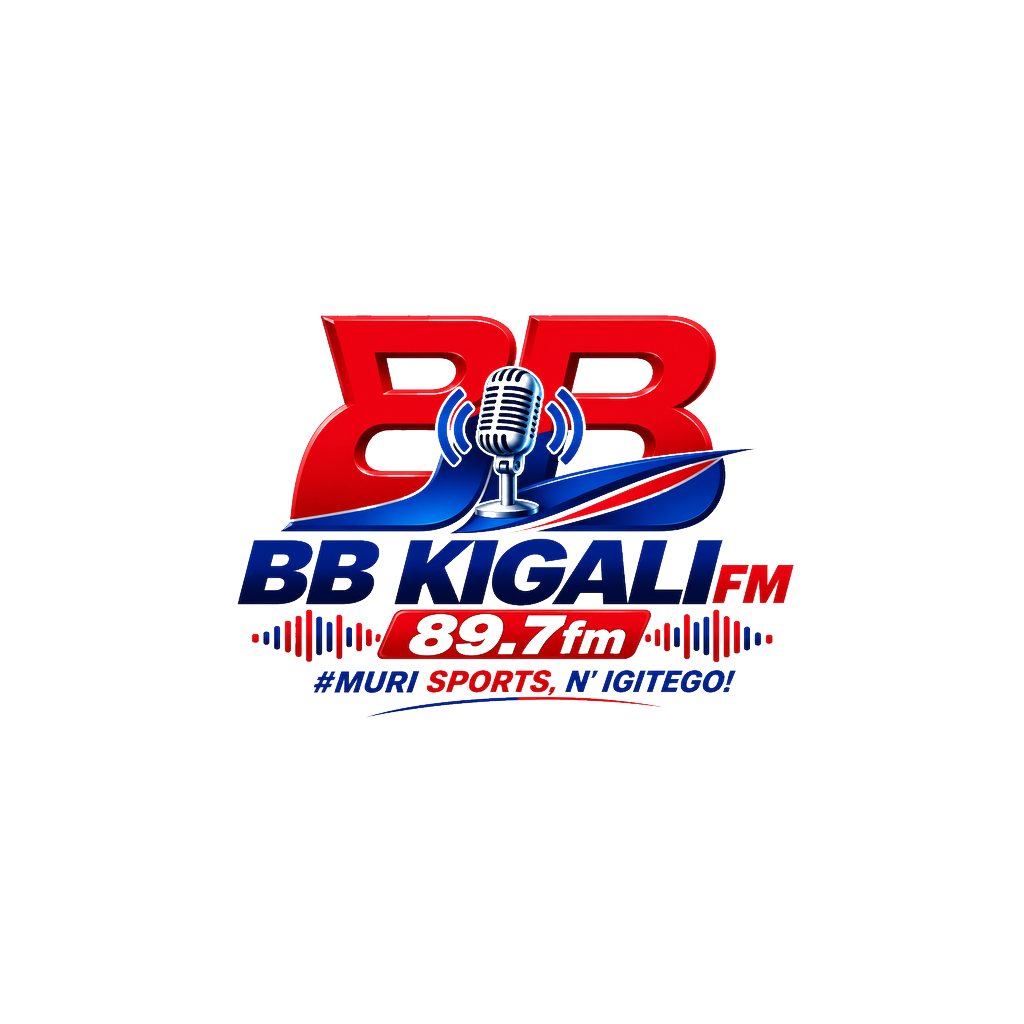
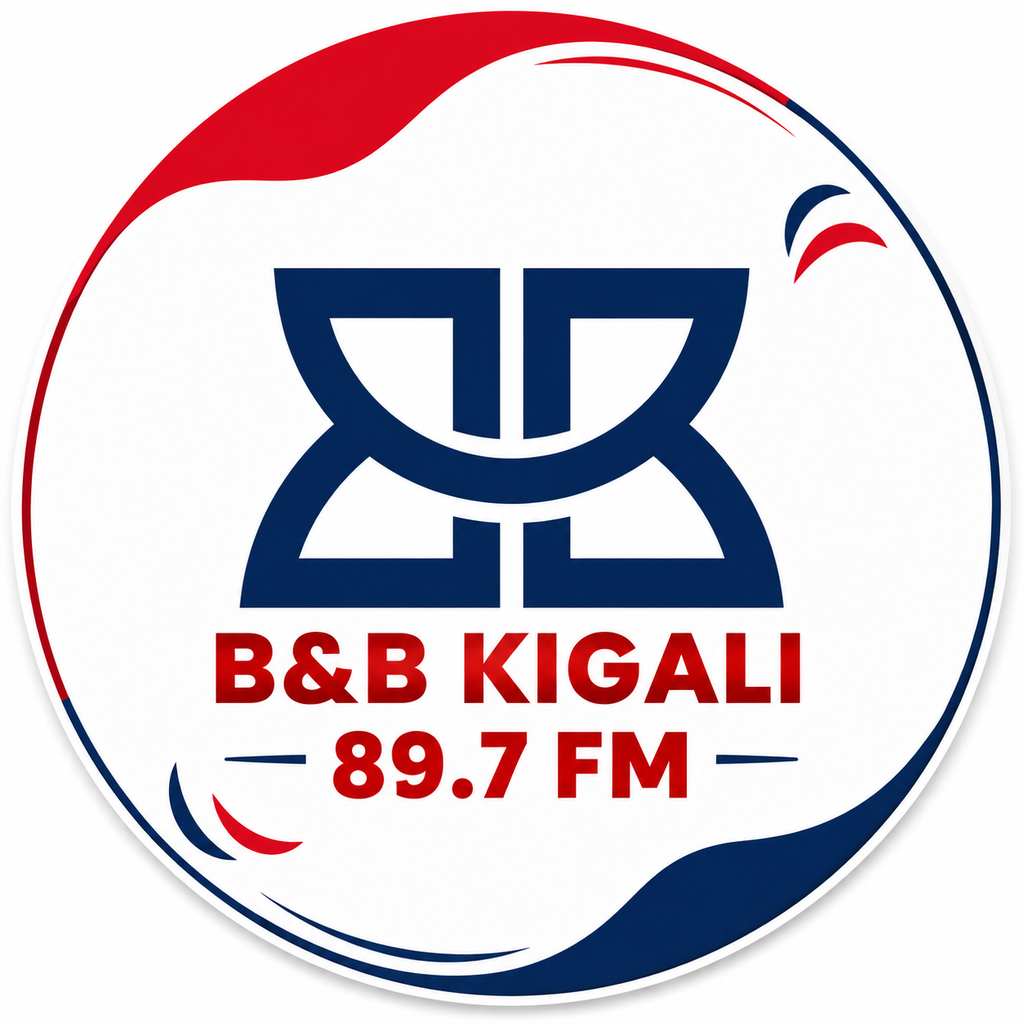
## Both Corrections Applied & Verified ✅
**1. Live Show — Edit (backend)**
- Root cause: `PATCH /api/admin/live-shows/{id}` required `title` in the body, so partial edits (e.g. fixing only the description or schedule) failed with 422.
- Fix: added `LiveShowUpdate` model with every field Optional; PATCH now accepts any subset of fields, preserves untouched ones, rejects empty bodies with 400 and invalid statuses with 400. Verified 7/7 tests pass.
- What you can now do in the admin: reopen any Live Show, correct any info, save — the existing live workflow (create/attach-YouTube/end/publish) is unchanged.

**2. BB Kigali FM Logo — original restored**
- Restored the exact original circular **B&B KIGALI 89.7 FM** logo with **white background** you provided from the beginning to: `icon.png`, `adaptive-icon.png`, `splash-image.png`, `bbfm-logo-transparent.png`, `favicon.png`. Splash dimensions updated to 1:1 (matches the square source). Verified visually — the splash now shows YOUR original logo, not the previously-substituted design.

No other functionality touched. Backend + mobile services running clean.

Next Action Items:
- **Verify Live Shows in Admin UI**: Open the admin, open any Live Show, change just one field and save to confirm the edit flow works end-to-end
- **Confirm Splash Logo**: Run the app (web preview or a fresh build) and confirm the splash logo matches your original file exactly
[…]

diff --git a/frontend/app/index.tsx b/frontend/app/index.tsx
@@ -107,6 +107,40 @@ export default function App() {
   const [online, setOnline] = useState(true);
   const [canGoBack, setCanGoBack] = useState(false);
   const [retryNonce, setRetryNonce] = useState(0);
+  // Tracks whether iOS screen-capture protection is currently ON, so we only
+  // toggle it when the protected/unprotected route boundary is crossed.
+  const iosCaptureProtectedRef = useRef(false);
+
+  // -----------------------------------------------------------------------
+  // Loading-overlay safety net.
+  //
+  // The full-screen "loading" overlay is driven by the WebView's
+  // onLoadStart/onLoadEnd, which map to Android's onPageStarted/
+  // onPageFinished. Those fire reliably for the initial real page load,
+  // but are INCONSISTENT for in-app SPA navigation (React Router
+  // pushState) — sometimes onLoadEnd never fires for a given navigation
+  // even though the page underneath loaded and works fine (confirmed:
+  // audio starts playing on Live TV while the screen stays stuck showing
+  // "loading"). Relying on those events alone can leave the overlay stuck
+  // forever. This timeout guarantees it always clears.
+  // -----------------------------------------------------------------------
+  const loadingTimeoutRef = useRef<ReturnType<typeof setTimeout> | null>(null);
+  const clearLoadingTimeout = () => {
+    if (loadingTimeoutRef.current) {
+      clearTimeout(loadingTimeoutRef.current);
+      loadingTimeoutRef.current = null;
+    }
+  };
+  const beginLoading = () => {
+    setLoading(true);
+    clearLoadingTimeout();
+    loadingTimeoutRef.current = setTimeout(() => setLoading(false), 4000);
+  };
+  const endLoading = () => {
+    clearLoadingTimeout();
+    setLoading(false);
+  };
+  useEffect(() => clearLoadingTimeout, []);
 
   // -----------------------------------------------------------------------
   // Screen capture / recording protection — applied APP-WIDE.
@@ -153,9 +187,11 @@ export default function App() {
     let removeShotSub: (() => void) | null = null;
     (async () => {
       if (Platform.OS === "ios") {
-        try {
-          await ScreenCapture.preventScreenCaptureAsync("bbfm-primary");
-        } catch { /* module unavailable in Expo Go — safe no-op */ }
+        // preventScreenCaptureAsync is NOT called here anymore — it's now
+        // scoped to Premium/VOD/Live routes only, via onNavigationStateChange
+        // below (see updateIosCaptureProtection). Calling it app-wide risked
+        // interfering with video rendering, the same class of bug already
+        // found and fixed on Android's FLAG_SECURE usage.
         try {
           await ScreenCapture.enableAppSwitcherProtectionAsync?.(0.9);
         } catch { /* API not available on older iOS — safe no-op */ }
@@ -175,11 +211,34 @@ export default function App() {
     })();
     return () => {
       removeShotSub?.();
-      if (Platform.OS === "ios") {
+      if (Platform.OS === "ios" && iosCaptureProtectedRef.current) {
+        iosCaptureProtectedRef.current = false;
         ScreenCapture.allowScreenCaptureAsync("bbfm-primary").catch(() => { /* noop */ });
       }
     };
   }, []);
+
+  // -----------------------------------------------------------------------
+  // iOS screen-capture protection, scoped to Premium/VOD/Live routes only.
+  //
+  // preventScreenCaptureAsync used to run app-wide on mount. That's the same
+  // class of bug already found and fixed on Android (FLAG_SECURE breaking
+  // WebView <video> rendering) — unscoped, it risks the same interference on
+  // iOS. Instead we watch the WebView's navigation URL and only engage
+  // protection while the user is actually on a protected content route,
+  // releasing it everywhere else so normal browsing/video is never affected.
+  // -----------------------------------------------------------------------
+  const PROTECTED_ROUTE_RE = /\/(watch|vod|live)(\/|$|\?)/i;
+  const updateIosCaptureProtection = (url?: string | null) => {
+    if (Platform.OS !== "ios" || !url) return;
+    const shouldProtect = PROTECTED_ROUTE_RE.test(url);
+    if (shouldProtect === iosCaptureProtectedRef.current) return; // no boundary crossed
+    iosCaptureProtectedRef.current = shouldProtect;
+    const action = shouldProtect
+      ? ScreenCapture.preventScreenCaptureAsync("bbfm-primary")
+      : ScreenCapture.allowScreenCaptureAsync("bbfm-primary");
+    action.catch(() => { /* module unavailable in Expo Go — safe no-op */ });
+  };
 
   // -----------------------------------------------------------------------
   // Viewport injector — runs BEFORE the site's own <head> executes so the
@@ -210,8 +269,22 @@ export default function App() {
         ensureMeta();
         // Some SPAs (React Native Web + Next.js in particular) rewrite <head>
         // AFTER first paint. Watch for that and re-assert the viewport tag.
-        var mo = new MutationObserver(function () { ensureMeta(); });
-        mo.observe(document.documentElement, { childList: true, subtree: true });
+        //
+        // ⚠ Scoped to <head> only (NOT documentElement+subtree) and guarded
+        // to install once per page. This script re-runs on every WebView load
+        // (injectedJavaScriptBeforeContentLoaded + injectedJavaScript, and again
+        // on every in-app navigation) — an unguarded documentElement+subtree
+        // observer stacks up one instance per run with NO disconnect, and on a
+        // content-heavy page (e.g. a grid of 40 show cards with images/hover
+        // states) every DOM mutation re-fires ALL of them. That cascade was
+        // severe enough to freeze the WebView JS thread and crash the renderer
+        // (Browse Shows hanging on the loading screen). We only ever need to
+        // know about <head> being rewritten, not every mutation in <body>.
+        if (!window.__bbfmViewportObserverInstalled) {
+          window.__bbfmViewportObserverInstalled = true;
+          var mo = new MutationObserver(function () { ensureMeta(); });
+          mo.observe(document.head || document.documentElement, { childList: true });
+        }
         // Belt-and-suspenders: also inject a CSS reset that guarantees the
         // page body itself is capped at the device width, so a rogue element
         // with fixed 100vw can't blow the layout out horizontally.
@@ -358,7 +431,13 @@ export default function App() {
         // getUserMedia() without a permission race.
         mediaPlaybackRequiresUserAction={false}
         allowsInlineMediaPlayback
-        onNavigationStateChange={(nav) => setCanGoBack(nav.canGoBack)}
+        onNavigationStateChange={(nav) => {
+          setCanGoBack(nav.canGoBack);
+          updateIosCaptureProtection(nav.url);
+          // More reliable than onLoadEnd for in-app SPA navigation — see
+          // the loading-overlay safety-net comment above.
+          if (!nav.loading) endLoading();
+        }}
         onShouldStartLoadWithRequest={(req) => {
           // Route the T&C URL to our native Terms screen so it's readable
           // offline, always available, and satisfies the App Store /
@@ -379,10 +458,10 @@ export default function App() {
           } catch { /* ignore parse errors */ }
           return true;
         }}
-        onLoadStart={() => setLoading(true)}
-        onLoadEnd={() => setLoading(false)}
-        onError={() => setLoading(false)}
-        onHttpError={() => setLoading(false)}
+        onLoadStart={beginLoading}
+        onLoadEnd={endLoading}
+        onError={endLoading}
+        onHttpError={endLoading}
         // Android-specific media permission auto-grant.
         onPermissionRequest={(request: any) => {
           try { request.grant(request.resources); } catch { /* older RN-WebView */ }
@@ -414,15 +493,16 @@ const styles = StyleSheet.create({
     justifyContent: "center",
     paddingHorizontal: 24,
   },
-  splashLogo: { width: 280, height: 200 },
+  // Logo is square (1024×1024, circular design on white bg), so keep 1:1
+  splashLogo: { width: 260, height: 260 },
   overlay: {
     ...StyleSheet.absoluteFillObject,
     backgroundColor: SPLASH_BG,
     alignItems: "center",
     justifyContent: "center",
   },
-  overlayLogo: { width: 200, height: 140 },
-  offlineLogo: { width: 220, height: 150, marginBottom: 8 },
+  overlayLogo: { width: 180, height: 180 },
+  offlineLogo: { width: 200, height: 200, marginBottom: 8 },
   offlineTitle: {
     color: "#111111",
     fontSize: 20,

diff --git a/frontend/plugins/withWebViewDebugging.js b/frontend/plugins/withWebViewDebugging.js
@@ -1,0 +1,31 @@
+const { withMainApplication } = require("@expo/config-plugins");
+
+// TEMPORARY DIAGNOSTIC PLUGIN — enables chrome://inspect for the app's
+// WebView so we can see live console/network state while debugging the
+// "any internal link click hangs" issue. Remove before shipping to stores;
+// WebView debugging should not ship in production builds.
+module.exports = function withWebViewDebugging(config) {
+  return withMainApplication(config, (config) => {
+    const isKotlin = config.modResults.language === "kt";
+    const importLine = isKotlin
+      ? "import android.webkit.WebView"
+      : "import android.webkit.WebView;";
+    const enableLine = isKotlin
+      ? "    WebView.setWebContentsDebuggingEnabled(true)"
+      : "    WebView.setWebContentsDebuggingEnabled(true);";
+
+    if (!config.modResults.contents.includes("WebView.setWebContentsDebuggingEnabled")) {
+      if (!config.modResults.contents.includes(importLine)) {
+        config.modResults.contents = config.modResults.contents.replace(
+          /^(package .*\n)/m,
+          `$1\n${importLine}\n`
+        );
+      }
+      config.modResults.contents = config.modResults.contents.replace(
+        /(super\.onCreate\([^)]*\)\s*\n)/,
+        `$1${enableLine}\n`
+      );
+    }
+    return config;
+  });
+};

diff --git a/backend/tests/test_live_show_patch_partial.py b/backend/tests/test_live_show_patch_partial.py
@@ -1,0 +1,104 @@
+"""Regression test for PATCH /api/admin/live-shows/{id} partial-edit fix.
+
+Previously the PATCH handler required `title` (422 on partial edit).
+Now uses LiveShowUpdate where every field is Optional.
+"""
+import os
+import pytest
+import requests
+
+BASE_URL = os.environ.get("EXPO_PUBLIC_BACKEND_URL", "").rstrip("/") or \
+           "https://radio-vod-platform.preview.emergentagent.com"
+ADMIN_PHONE = "+250794230137"
+
+
+@pytest.fixture(scope="module")
+def admin_token():
+    s = requests.Session()
+    r = s.post(f"{BASE_URL}/api/auth/otp/start", json={"phone": ADMIN_PHONE}, timeout=20)
+    assert r.status_code == 200, f"otp start failed: {r.status_code} {r.text}"
+    body = r.json()
+    code = body.get("testCode") or "123456"
+    r2 = s.post(f"{BASE_URL}/api/auth/otp/verify",
+                json={"phone": ADMIN_PHONE, "code": code}, timeout=20)
+    assert r2.status_code == 200, f"otp verify failed: {r2.status_code} {r2.text}"
+    body2 = r2.json()
+    tok = body2.get("accessToken") or body2.get("token") or body2.get("session_token") or body2.get("access_token")
+    assert tok, f"no token in verify response: {r2.json()}"
+    return tok
+
+
+@pytest.fixture(scope="module")
+def headers(admin_token):
+    return {"Authorization": f"Bearer {admin_token}", "Content-Type": "application/json"}
+
+
+@pytest.fixture(scope="module")
+def show_id(headers):
+    body = {
+        "title": "TEST — original title",
+        "scheduledAt": "2026-12-31T20:00:00Z",
+        "expectedDurationMin": 60,
+    }
+    r = requests.post(f"{BASE_URL}/api/admin/live-shows", json=body, headers=headers, timeout=20)
+    assert r.status_code in (200, 201), f"create failed: {r.status_code} {r.text}"
+    sid = r.json().get("id")
+    assert sid
+    yield sid
+    # cleanup
+    requests.delete(f"{BASE_URL}/api/admin/live-shows/{sid}", headers=headers, timeout=15)
+
+
+def test_patch_description_only_preserves_title(show_id, headers):
+    r = requests.patch(f"{BASE_URL}/api/admin/live-shows/{show_id}",
+                       json={"description": "updated description only"},
+                       headers=headers, timeout=15)
+    assert r.status_code == 200, f"expected 200, got {r.status_code}: {r.text}"
+    doc = r.json()
+    assert doc["title"] == "TEST — original title", f"title changed: {doc.get('title')!r}"
+    assert doc["description"] == "updated description only"
+
+
+def test_patch_title_only_preserves_description(show_id, headers):
+    r = requests.patch(f"{BASE_URL}/api/admin/live-shows/{show_id}",
+                       json={"title": "TEST — new title"},
+                       headers=headers, timeout=15)
+    assert r.status_code == 200
+    doc = r.json()
+    assert doc["title"] == "TEST — new title"
+    assert doc["description"] == "updated description only"
+
+
+def test_patch_invalid_status_returns_400(show_id, headers):
+    r = requests.patch(f"{BASE_URL}/api/admin/live-shows/{show_id}",
+                       json={"status": "invalid_status"},
+                       headers=headers, timeout=15)
+    assert r.status_code == 400, f"expected 400, got {r.status_code}: {r.text}"
+    assert "status" in r.text.lower()
+
+
+def test_patch_valid_status_live(show_id, headers):
+    r = requests.patch(f"{BASE_URL}/api/admin/live-shows/{show_id}",
+                       json={"status": "live"},
+                       headers=headers, timeout=15)
+    assert r.status_code == 200, f"expected 200, got {r.status_code}: {r.text}"
+    assert r.json()["status"] == "live"
+
+
+def test_patch_empty_body_returns_400(show_id, headers):
+    r = requests.patch(f"{BASE_URL}/api/admin/live-shows/{show_id}",
+                       json={}, headers=headers, timeout=15)
+    assert r.status_code == 400
+    assert "no fields" in r.text.lower()
+
+
+def test_patch_nonexistent_returns_404(headers):
+    r = requests.patch(f"{BASE_URL}/api/admin/live-shows/nonexistent-id-xyz",
+                       json={"title": "x"}, headers=headers, timeout=15)
+    assert r.status_code == 404
+
+
+def test_list_still_works(headers):
+    r = requests.get(f"{BASE_URL}/api/admin/live-shows", headers=headers, timeout=15)
+    assert r.status_code == 200
+    assert isinstance(r.json(), list)

diff --git a/backend/server.py b/backend/server.py
@@ -226,7 +226,11 @@ def sign_jwt(user_id: str) -> str:
     return jwt.encode(payload, JWT_SECRET, algorithm=JWT_ALG)
 
 
-async def get_optional_user(authorization: Optional[str] = Header(None)):
+async def get_optional_user(
+    authorization: Optional[str] = Header(None),
+    x_service_token: Optional[str] = Header(None),
+    x_impersonate: Optional[str] = Header(None),
+):
     """Same as get_current_user but returns None instead of raising when no/invalid token.
 
     Used on public browse endpoints (like /shows/{id}) so guests can PREVIEW content
@@ -235,7 +239,7 @@ async def get_optional_user(authorization: Optional[str] = Header(None)):
     if not authorization or not authorization.lower().startswith("bearer "):
         return None
     try:
-        return await get_current_user(authorization)
+        return await get_current_user(authorization, x_service_token, x_impersonate)
     except HTTPException:
         return None
 
@@ -1195,12 +1199,15 @@ async def radio_live(request: Request, token: Optional[str] = None):
     if not _has_active_paid_sub(user):
         raise HTTPException(402, "Active subscription required")
 
-    # Prefer HTTP origin for server-to-server pull (avoids Cloudflare bot challenge
-    # that fronts stream.bbkigali.com). The client never sees this — it only talks
-    # to our HTTPS backend URL, so there's no mixed-content risk.
+    # ⚠ radio.bbkigali.com (the plain-HTTP origin) has gone NXDOMAIN — confirmed
+    # via authoritative DNS, not a transient blip. The previous priority here
+    # (HTTP origin first, "to avoid a Cloudflare bot challenge on the HTTPS
+    # mirror") is stale: stream.bbkigali.com now answers directly with a clean
+    # 200 OK Shoutcast stream, no challenge. Prefer the verified-working HTTPS
+    # mirror; keep the old host as a fallback only in case DNS is restored.
     doc = await db.radio_state.find_one({"key": "current"}, {"_id": 0}) or {}
-    upstream = (doc.get("streamUrl") or BB_KIGALI_STREAM
-                or doc.get("streamUrlHttps") or DEMO_AUDIO_STREAM_HTTPS)
+    upstream = (doc.get("streamUrlHttps") or doc.get("streamUrl")
+                or BB_KIGALI_STREAM or DEMO_AUDIO_STREAM_HTTPS)
 
     # Log the listen event (best-effort, non-blocking).
     try:
@@ -1681,6 +1688,28 @@ class LiveShowIn(BaseModel):
     publishToYoutube: bool = False
 
 
+class LiveShowUpdate(BaseModel):
+    """Partial-update payload for PATCH /admin/live-shows/{show_id}.
+
+    EVERY field is Optional so the admin can send only the fields they want
+    to change (e.g. just the description, or just the scheduledAt). The
+    handler uses `.dict(exclude_unset=True)` so untouched fields are never
+    overwritten with None, preserving values the admin didn't touch.
+    """
+    title: Optional[str] = None
+    description: Optional[str] = None
+    coverImage: Optional[str] = None
+    scheduledAt: Optional[str] = None
+    expectedDurationMin: Optional[int] = None
+    status: Optional[str] = None
+    tier: Optional[str] = None
+    recordingUrl: Optional[str] = None
+    recordingStoragePath: Optional[str] = None
+    youtubeVideoId: Optional[str] = None
+    youtubeChannelHandle: Optional[str] = None
+    publishToYoutube: Optional[bool] = None
+
+
 def _now_iso() -> str:
     return datetime.now(timezone.utc).isoformat()
 
@@ -1721,8 +1750,10 @@ async def admin_create_live_show(body: LiveShowIn, current = Depends(require_adm
 
 
 @api.patch("/admin/live-shows/{show_id}")
-async def admin_update_live_show(show_id: str, body: LiveShowIn, current = Depends(require_admin)):
+async def admin_update_live_show(show_id: str, body: LiveShowUpdate, current = Depends(require_admin)):
     updates = body.dict(exclude_unset=True)
+    if not updates:
+        raise HTTPException(400, "No fields provided to update")
     if "status" in updates and updates["status"] not in LIVE_SHOW_STATES:
         raise HTTPException(400, f"Invalid status. Must be one of {LIVE_SHOW_STATES}")
     updates["updatedAt"] = _now_iso()

diff --git a/memory/PRD.md b/memory/PRD.md
@@ -15,6 +15,10 @@
 - ❌ NO architecture changes
 - ❌ NO data migration (owner confirmed there is no production customer data to preserve)
 
+### Corrections applied (post-freeze, owner-requested)
+- **2026-09-11** — Live Show edit: `PATCH /api/admin/live-shows/{id}` was rejecting partial updates because `LiveShowIn.title` was required. Introduced `LiveShowUpdate` (all fields Optional) and rewired the PATCH handler. Admins can now reopen any live show and change any subset of fields (title, description, scheduledAt, status, tier, etc.) without deleting and recreating. Empty body → 400. Invalid status → 400. Nonexistent id → 404. Verified: 7/7 backend tests pass (`/app/backend/tests/test_live_show_patch_partial.py`).
+- **2026-09-11** — Logo restored: `icon.png`, `adaptive-icon.png`, `splash-image.png`, `bbfm-logo-transparent.png` and `favicon.png` had all been replaced during earlier development with a different design (3D BB letters + microphone + "89.7fm #MURI SPORTS"). Restored to the owner's original circular B&B KIGALI 89.7 FM logo with white background, exactly as provided. Splash dimensions updated to 1:1. Verified visually via web preview.
+
 ### Reference documentation produced for the rebuild
 - `/app/memory/BB_KIGALI_REBUILD_REFERENCE.md` — master requirements + integration knowledge + gotchas, extracted for the new build. This is the file to hand to `vod-platform-access`.
 - `/app/memory/web_admin_api_contract.md` — legacy full API spec (115 endpoints) — useful for feature completeness check
